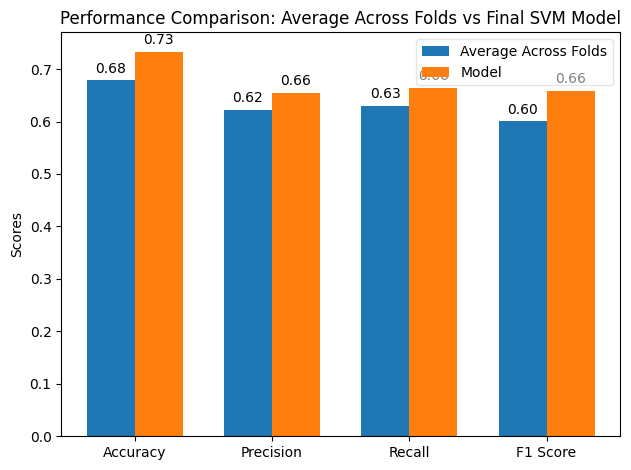
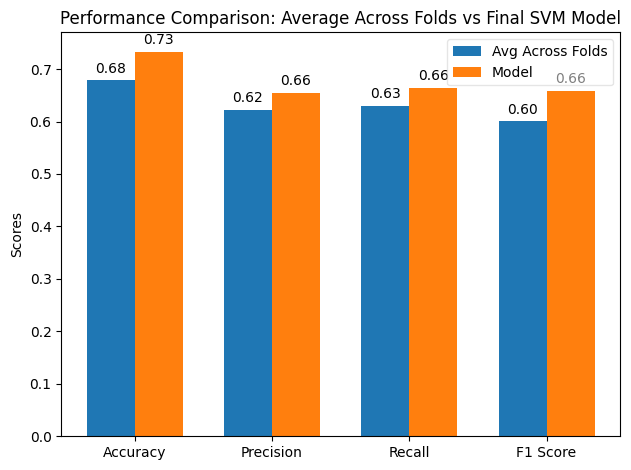
Update Model2.py

Changed region(s): [[0.6624, 0.0894, 0.9635, 0.1787]]

diff --git a/scripts/Predictive_Attributes.py b/scripts/Predictive_Attributes.py
@@ -23,24 +23,21 @@ svm_feature_importances = final_svm.coef_[0]
 # In[133]:
 
 
-# Obtain Random Forest feature names
-rf_features = X_train[selected_features].columns
+# Obtain feature names
+features = X_train.columns
 
 # Visualise RandomForest feature importances
 plt.figure(figsize=(10, 8))
-plt.bar(rf_features, rf_feature_importances)
+plt.bar(features, rf_feature_importances)
 plt.xticks(rotation=45)
 plt.title("RandomForest Feature Importances")
 
 # Save figure
 plt.savefig('results/Predictive_Attributes/RF_Feature_Importance.png', bbox_inches='tight')
 
-# Obtain Support Vector Machine feature names
-svm_features = X_train[svm_selected_features].columns
-
 # Visualise SVM feature importances
 plt.figure(figsize=(10, 8))
-plt.bar(svm_features, svm_feature_importances)
+plt.bar(features, svm_feature_importances)
 plt.xticks(rotation=45)
 plt.title("SVM Feature Importances")
 
@@ -54,13 +51,13 @@ plt.savefig('results/Predictive_Attributes/SVM_Feature_Importance.png', bbox_inc
 
 # Create SHAP explainer
 rf_explainer = shap.TreeExplainer(final_rf)
-rf_shap_values = rf_explainer.shap_values(X_train[selected_features])
+rf_shap_values = rf_explainer.shap_values(X_train)
 
 # Matplotlib Config to enable saving of SHAP Summary Plot
 plt.ioff()
 matplotlib.use('Agg')
 
-shap.summary_plot(rf_shap_values, X_train[selected_features], plot_type="bar")
+shap.summary_plot(rf_shap_values, X_train, plot_type="bar")
 
 plt.savefig('results/Predictive_Attributes/RF_shap_summary_plot.png', bbox_inches='tight')
 

diff --git a/scripts/Model2.py b/scripts/Model2.py
@@ -184,7 +184,7 @@ width = 0.35
 
 # Provide data
 fig, ax = plt.subplots()
-svm_rects1 = ax.bar(x - width / 2, svm_avg_values, width, label='Average Across Folds')
+svm_rects1 = ax.bar(x - width / 2, svm_avg_values, width, label='Avg Across Folds')
 svm_rects2 = ax.bar(x + width / 2, svm_final_values, width, label='Model')
 
 # Add text to visualisation
